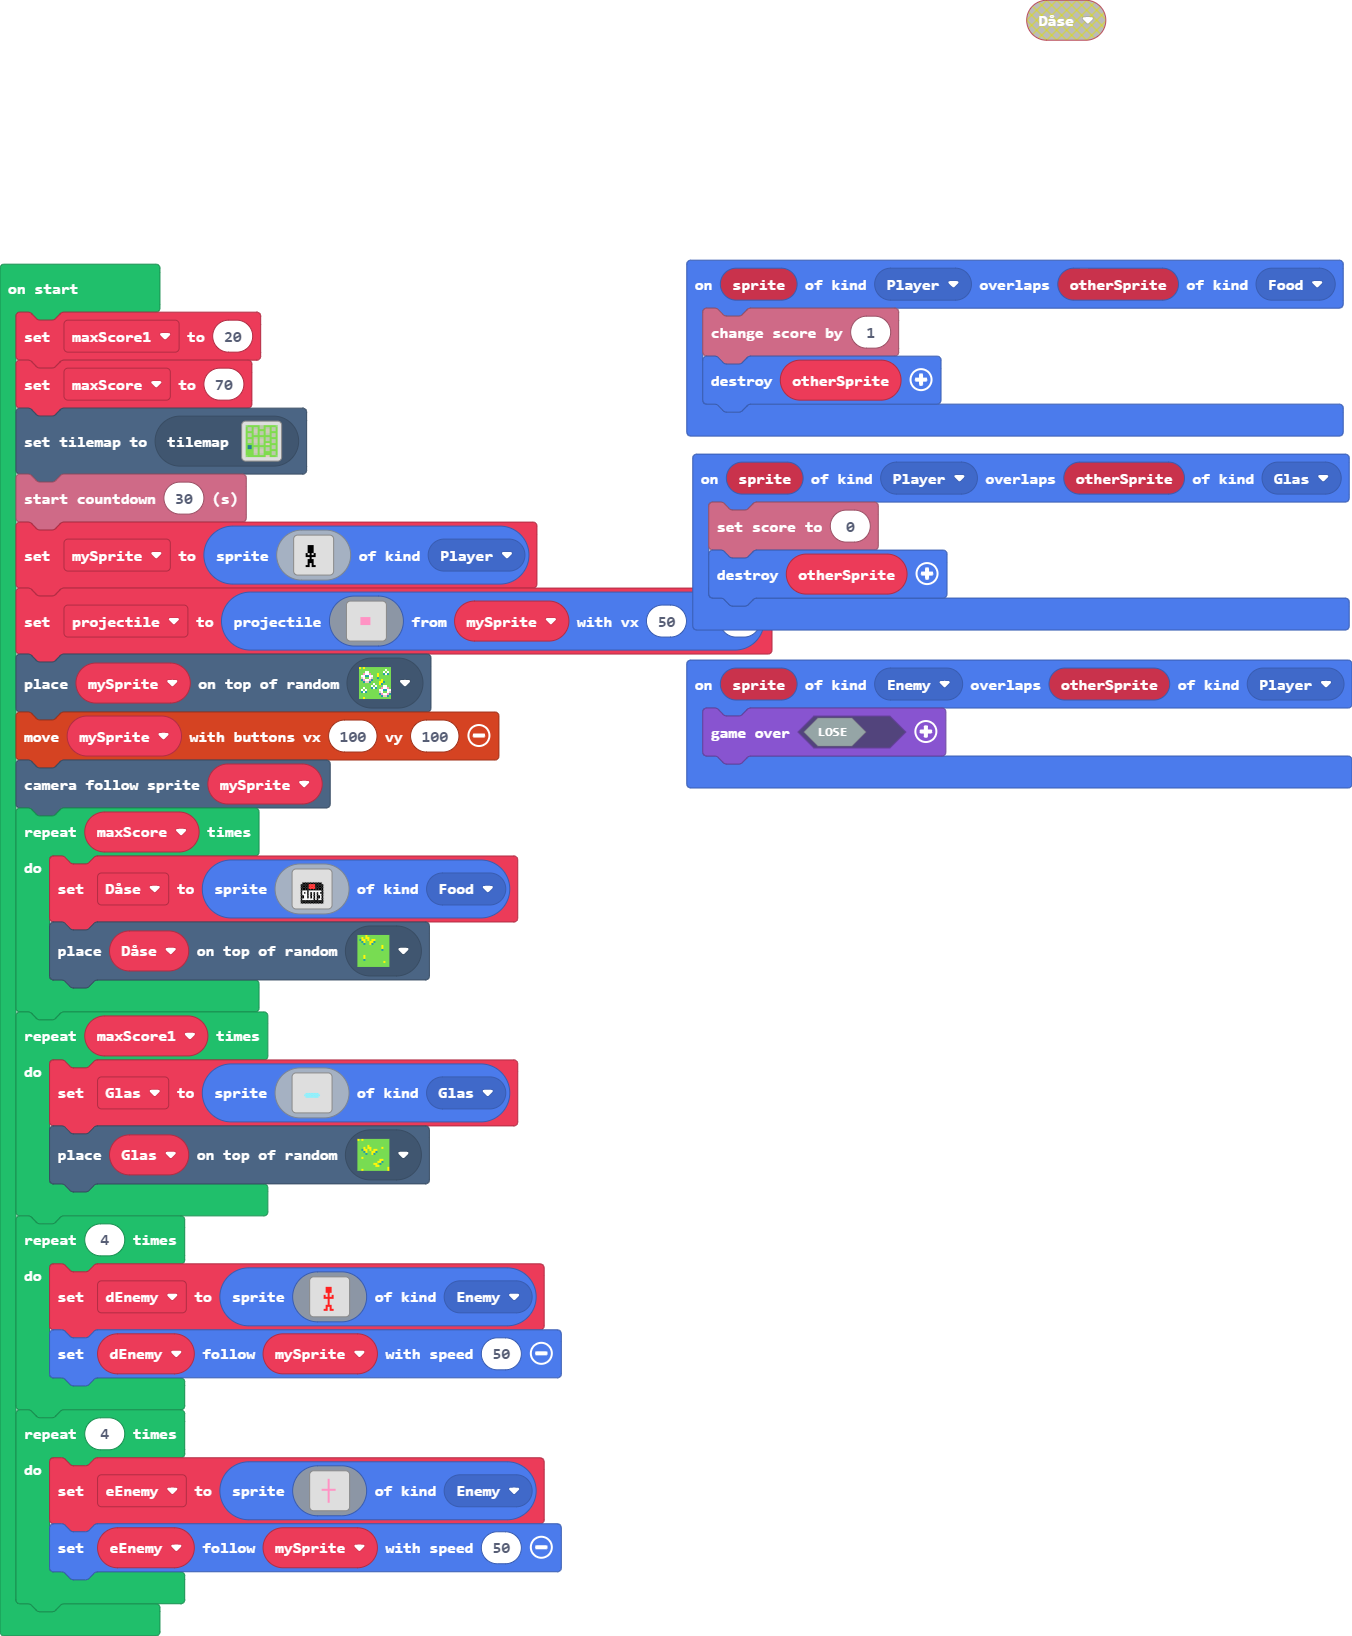
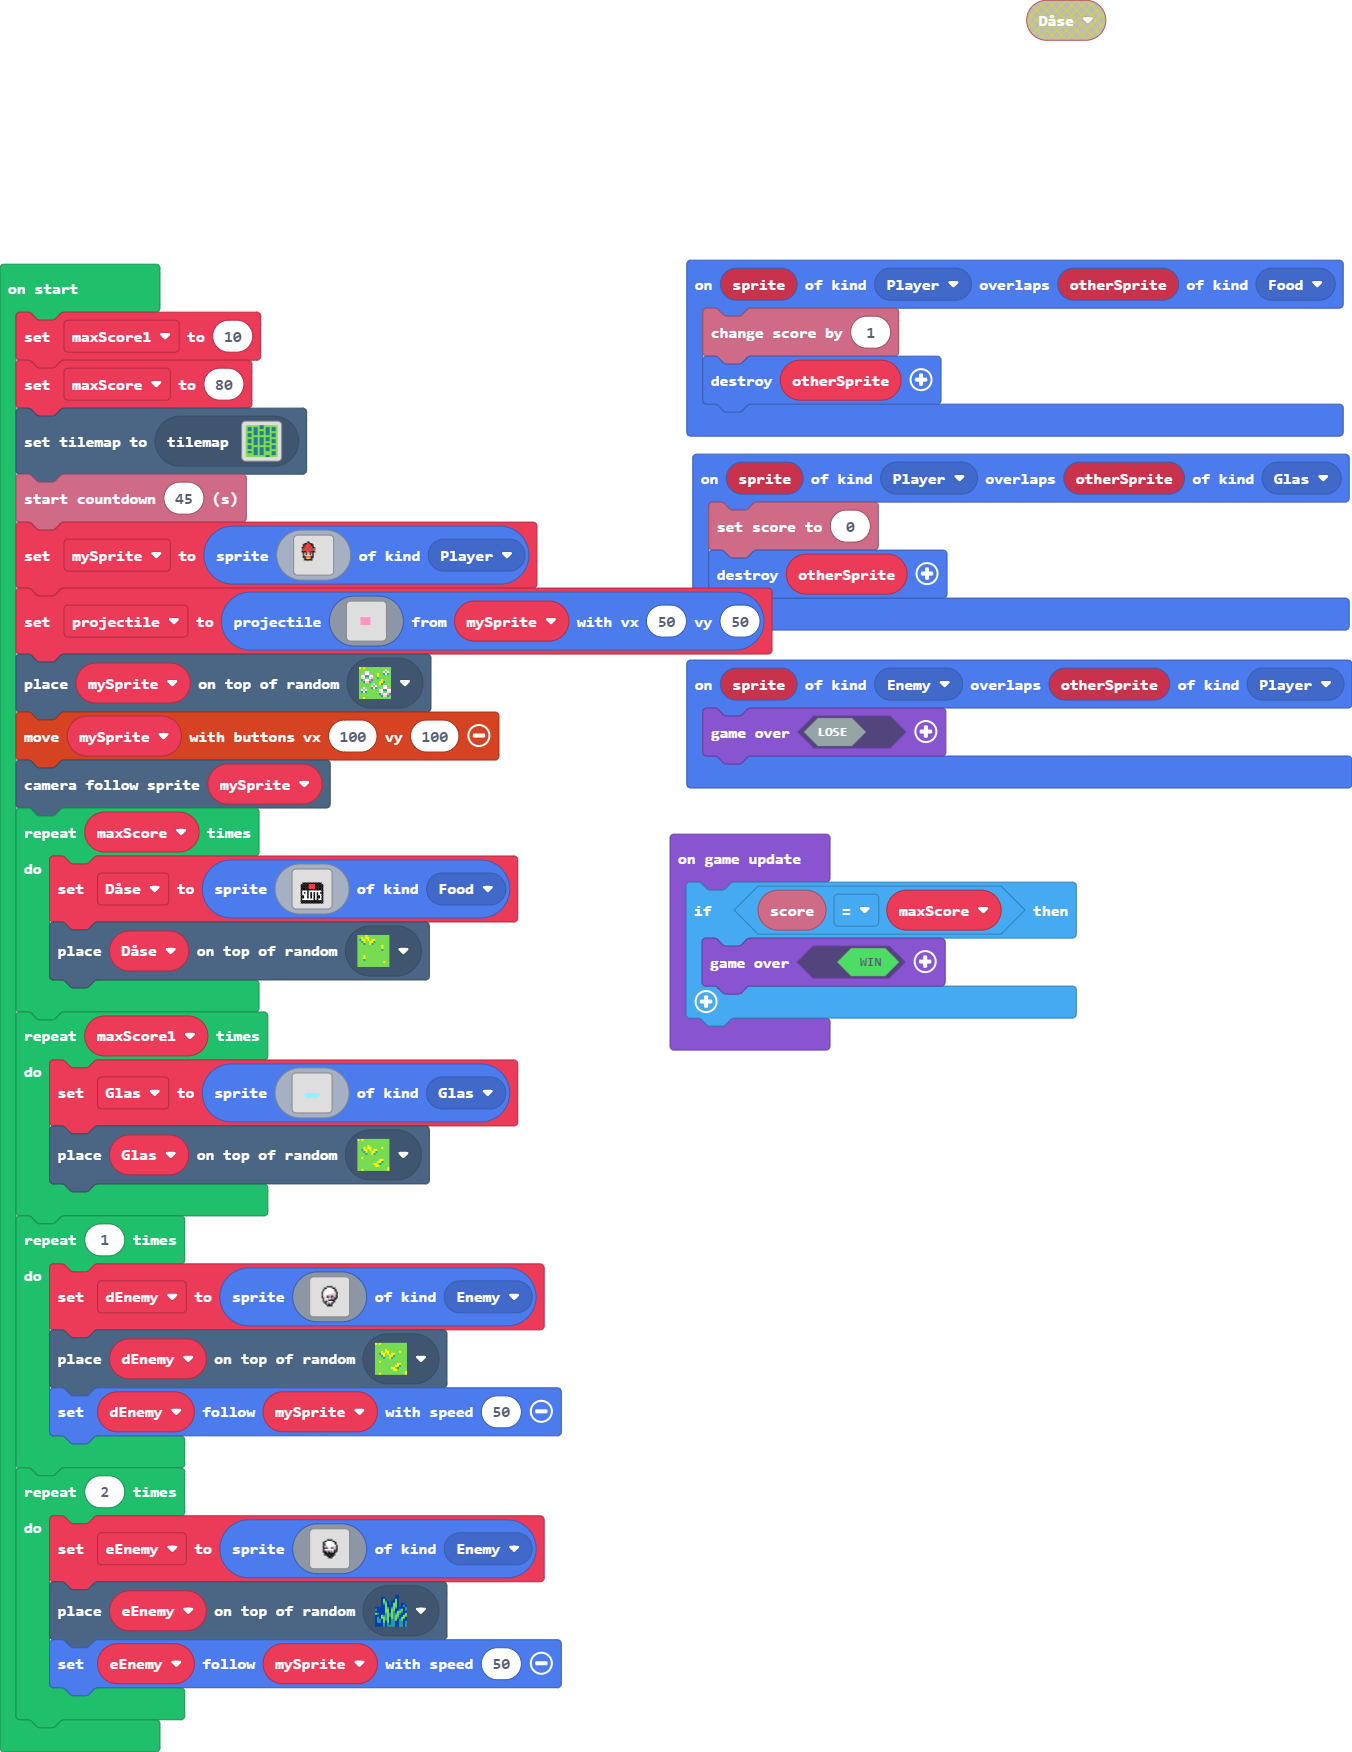
opdateret1

diff --git a/main.ts b/main.ts
@@ -18,27 +18,35 @@ let eEnemy: Sprite = null
 let dEnemy: Sprite = null
 let Glas: Sprite = null
 let Dåse: Sprite = null
-let maxScore1 = 20
-let maxScore = 70
+let maxScore1 = 10
+let maxScore = 80
 tiles.setCurrentTilemap(tilemap`level1`)
-info.startCountdown(30)
+info.startCountdown(45)
 let mySprite = sprites.create(img`
-    . . . . . . . . . . . . . . . . 
-    . . . . . . . . . . . . . . . . 
-    . . . . . . . . . . . . . . . . 
-    . . . . . f f f . . . . . . . . 
-    . . . . . f f f . . . . . . . . 
-    . . . . . f f f . . . . . . . . 
-    . . . . . f f f . . . . . . . . 
-    . . . . f . f . f . . . . . . . 
-    . . . . f f f f f . . . . . . . 
-    . . . . . . f . . . . . . . . . 
-    . . . . . f f f . . . . . . . . 
-    . . . . . f f f . . . . . . . . 
-    . . . . . f . f . . . . . . . . 
-    . . . . f f . f f . . . . . . . 
-    . . . . . . . . . . . . . . . . 
-    . . . . . . . . . . . . . . . . 
+    ........................
+    ........................
+    .......ff...............
+    .....ff22ff.............
+    ....ff2222ff............
+    ....f222222f............
+    ...ff222222ff...........
+    ...eeeeeeeeee...........
+    ...e22222222e...........
+    ...fffeeeefff...........
+    ....fbf44fbf............
+    ....f1fddf1f............
+    ....f4dddd4f............
+    ....ff2222ff............
+    .....f4554f.............
+    .....ffffff.............
+    ........................
+    ........................
+    ........................
+    ........................
+    ........................
+    ........................
+    ........................
+    ........................
     `, SpriteKind.Player)
 let projectile = sprites.createProjectileFromSprite(img`
     . . . . . . . . . . . . . . . . 
@@ -111,45 +119,68 @@ for (let index = 0; index < maxScore1; index++) {
         `, SpriteKind.Glas)
     tiles.placeOnRandomTile(Glas, sprites.castle.tileGrass3)
 }
-for (let index = 0; index < 4; index++) {
+for (let index = 0; index < 1; index++) {
     dEnemy = sprites.create(img`
-        . . . . . . . . . . . . . . . . 
-        . . . . . . . . . . . . . . . . 
-        . . . . . . . . . . . . . . . . 
-        . . . . . . 2 2 2 . . . . . . . 
-        . . . . . . 2 2 2 . . . . . . . 
-        . . . . . . 2 2 2 . . . . . . . 
-        . . . . . . . 2 . . . . . . . . 
-        . . . . . 2 . 2 . 2 . . . . . . 
-        . . . . . 2 2 2 2 2 . . . . . . 
-        . . . . . . . 2 . . . . . . . . 
-        . . . . . . . 2 . . . . . . . . 
-        . . . . . . . 2 . . . . . . . . 
-        . . . . . . 2 2 2 . . . . . . . 
-        . . . . . . 2 . 2 . . . . . . . 
-        . . . . . 2 2 . 2 2 . . . . . . 
-        . . . . . . . . . . . . . . . . 
+        ........................
+        ........................
+        ........................
+        ........................
+        ..........ffff..........
+        ........ff1111ff........
+        .......fb111111bf.......
+        .......f1111111df.......
+        ......fd1111111ddf......
+        ......fd111111dddf......
+        ......fd111ddddddf......
+        ......fd1dfbdfcdbf......
+        ......fbddfcdfbbcf......
+        .......f11111bbcf.......
+        .......f1b1fffff........
+        .......fbfc111bf........
+        ........ff1b1bf.........
+        .........fbfbf..........
+        ..........ffff..........
+        ........................
+        ........................
+        ........................
+        ........................
+        ........................
         `, SpriteKind.Enemy)
+    tiles.placeOnRandomTile(dEnemy, sprites.castle.tileGrass3)
     dEnemy.follow(mySprite, 50)
 }
-for (let index = 0; index < 4; index++) {
+for (let index = 0; index < 2; index++) {
     eEnemy = sprites.create(img`
-        . . . . . . . . . . . . . . . . 
-        . . . . . . . . . . . . . . . . 
-        . . . . . . . 3 . . . . . . . . 
-        . . . . . . . 3 . . . . . . . . 
-        . . . . . . . 3 . . . . . . . . 
-        . . . . . . . 3 . . . . . . . . 
-        . . . . . . . 3 . . . . . . . . 
-        . . . . 3 3 3 3 3 3 3 . . . . . 
-        . . . . . . . 3 . . . . . . . . 
-        . . . . . . . 3 . . . . . . . . 
-        . . . . . . . 3 . . . . . . . . 
-        . . . . . . . 3 . . . . . . . . 
-        . . . . . . . 3 . . . . . . . . 
-        . . . . . . . 3 . . . . . . . . 
-        . . . . . . . . . . . . . . . . 
-        . . . . . . . . . . . . . . . . 
+        ........................
+        ........................
+        ........................
+        ........................
+        ........................
+        ..........ffff..........
+        ........ff1111ff........
+        .......fb111111bf.......
+        .......fc1111111f.......
+        .......fcd1111111f......
+        .......f1b1111dddf......
+        .......ffcf11fcddf......
+        .......f1111111bbf......
+        .......fcbdb1b1fcf......
+        .......fffbfbfdff.......
+        ........ffffffff........
+        ........ffffffff........
+        ..........fffff.........
+        ...........fff..........
+        ........................
+        ........................
+        ........................
+        ........................
+        ........................
         `, SpriteKind.Enemy)
+    tiles.placeOnRandomTile(eEnemy, sprites.swamp.swampTile1)
     eEnemy.follow(mySprite, 50)
 }
+game.onUpdate(function () {
+    if (info.score() == maxScore) {
+        game.over(true)
+    }
+})

diff --git a/tilemap.g.ts b/tilemap.g.ts
@@ -18,7 +18,7 @@ namespace myTiles {
     helpers._registerFactory("tilemap", function(name: string) {
         switch(helpers.stringTrim(name)) {
             case "level1":
[1 lines of base64/hex data omitted]
+            case "level1":return tiles.createTilemap(hex`1000100003010101010101040401020101010103010404010404010404020404010404010104040104040101020104040204040101010101040401040401040401010101010404010404010404010404010404020104040101010101020101010104040101020101040401040401040401010101010404020404010404020404010404010104040104040104040101010104040201010101040401040401040401010101010404010101010101010101010404010104040104040104040104040104040101010101040401040401040402010101010404010404010404010102010404010101010104040204040101010104040103010101010101010101040401010103`, img`
 . . . . . . . 2 2 . . . . . . . 
 . 2 2 . 2 2 . 2 2 . 2 2 . 2 2 . 
 . 2 2 . 2 2 . . . . 2 2 . 2 2 . 
@@ -35,7 +35,7 @@ namespace myTiles {
 . . . . 2 2 . 2 2 . . . . 2 2 . 
 . . . . 2 2 . 2 2 . . . . 2 2 . 
 . . . . . . . . . . 2 2 . . . . 
-`, [myTiles.transparency16,sprites.castle.tilePath7,sprites.castle.tilePath1,sprites.castle.tilePath4,sprites.castle.tilePath9,sprites.castle.tilePath6,sprites.castle.tilePath3,sprites.castle.tileGrass1,sprites.castle.tileGrass3,sprites.castle.tilePath5,sprites.castle.tileGrass2,sprites.swamp.swampTile1], TileScale.Sixteen);
+`, [myTiles.transparency16,sprites.castle.tileGrass1,sprites.castle.tileGrass3,sprites.castle.tileGrass2,sprites.swamp.swampTile1], TileScale.Sixteen);
         }
         return null;
     })
